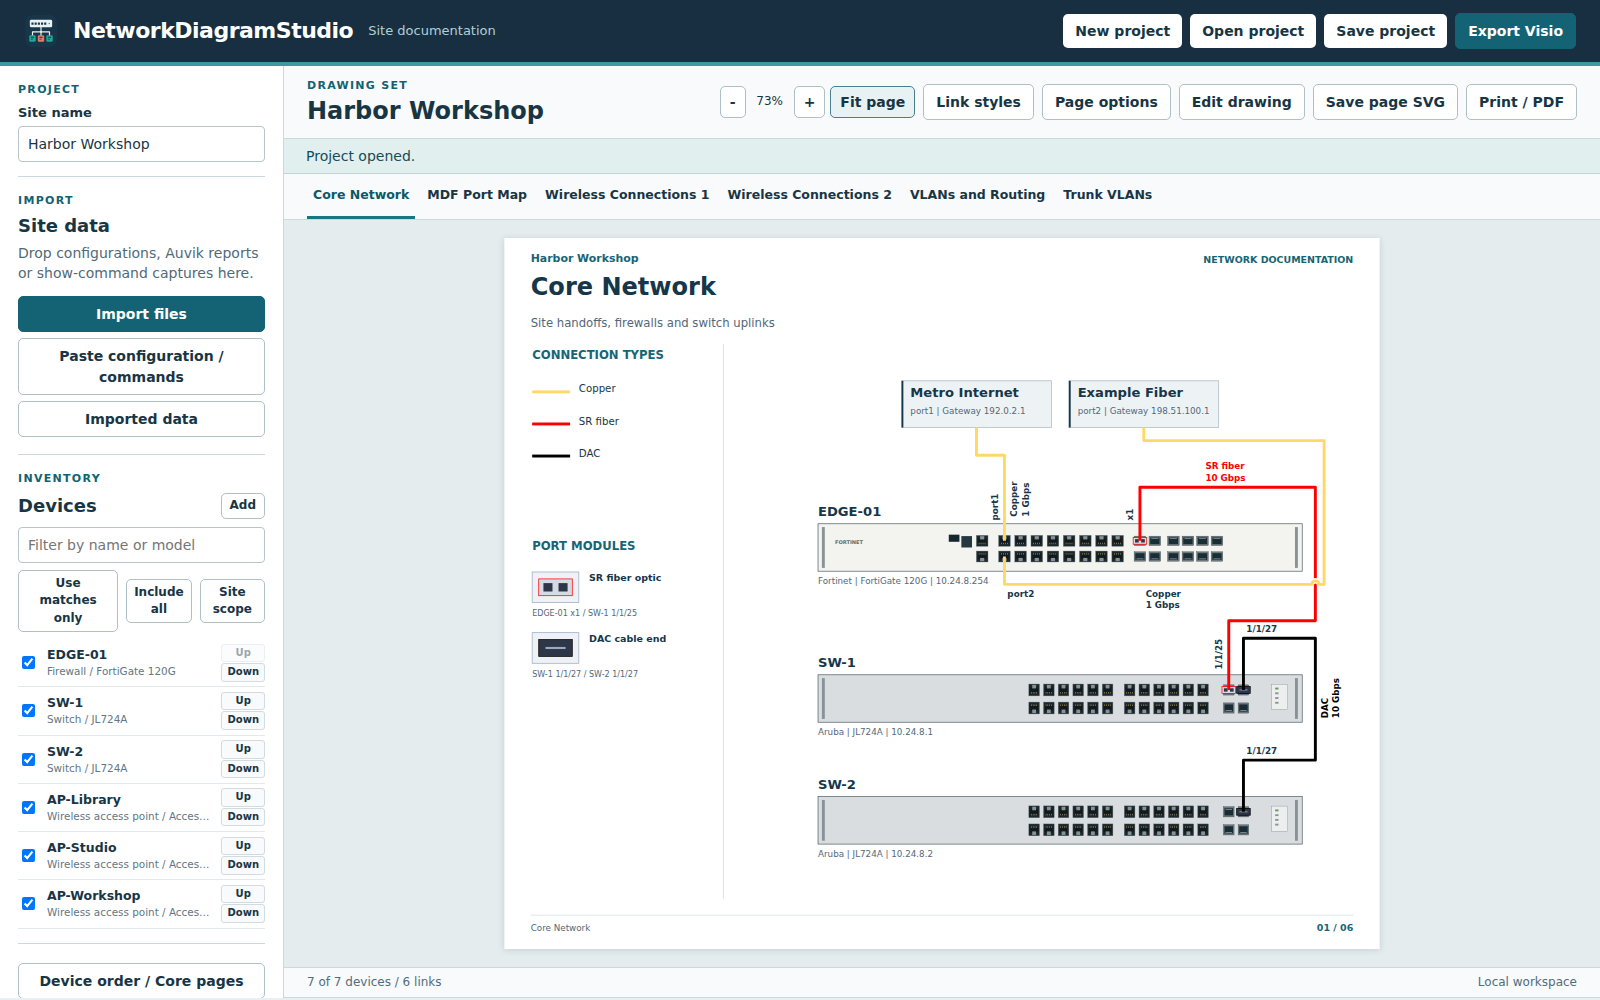
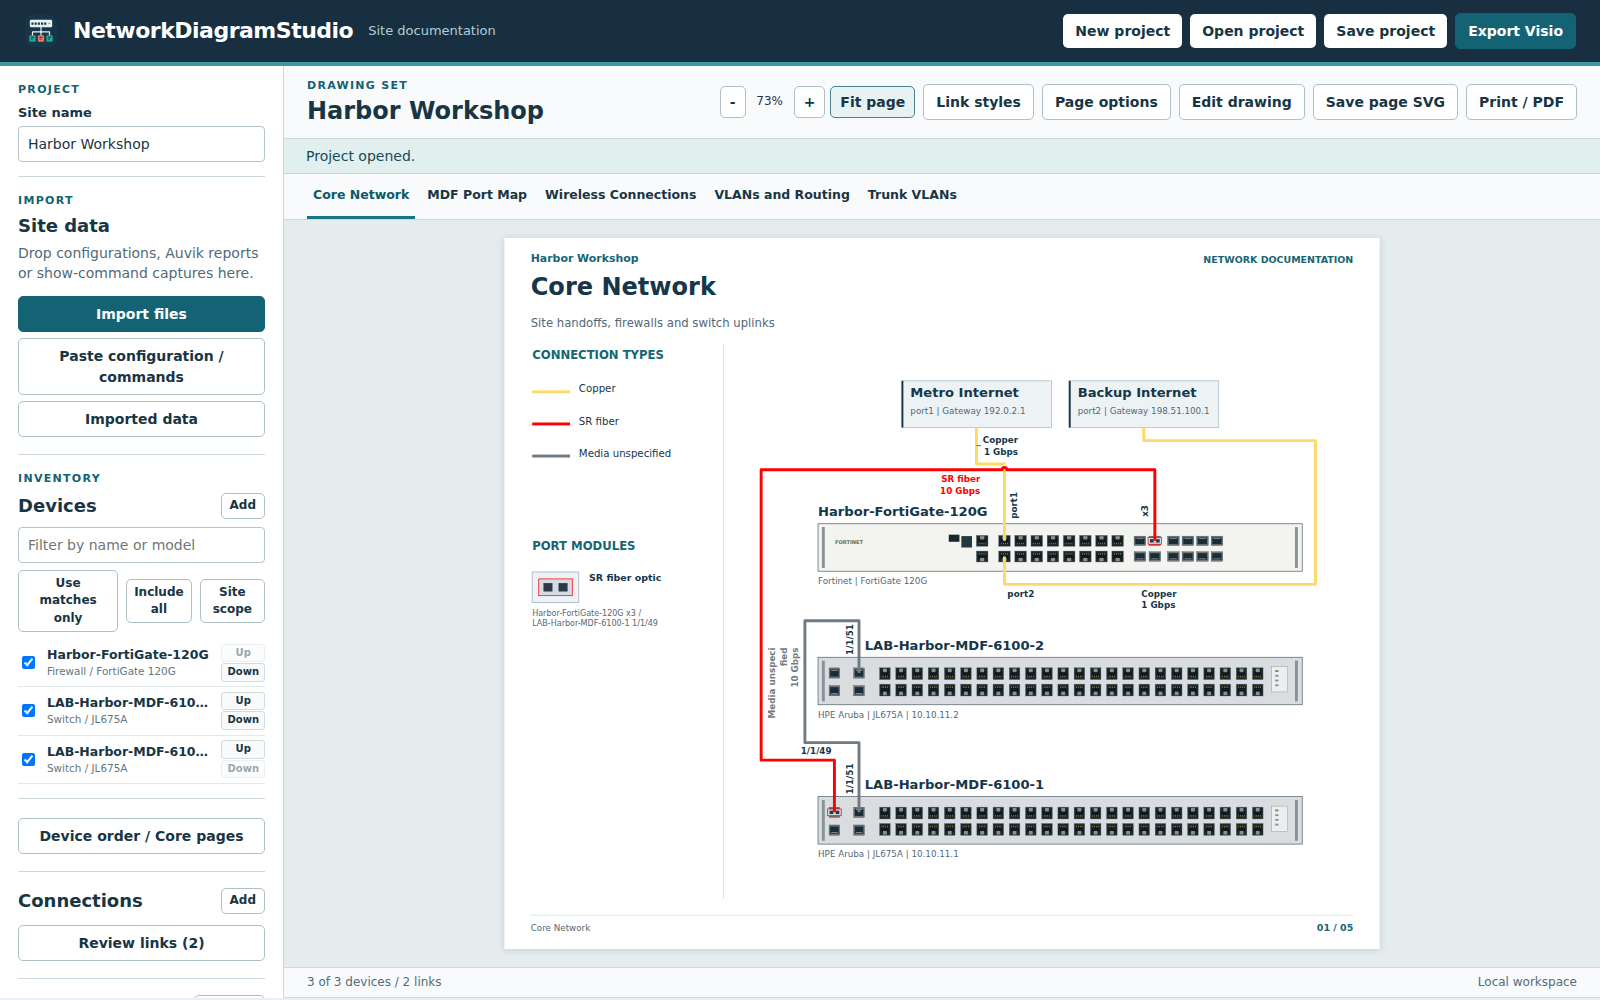
Fit core devices before automatic page continuation

diff --git a/README.md b/README.md
@@ -11,7 +11,7 @@ Network engineers can use the Windows application or the offline browser edition
 - Import supported configurations, Base64 SonicWall EXP settings, Auvik XLSX/CSV reports and show-command captures. Enable each file and choose identity, ports, links, VLANs, routes and bridges separately.
 - Add 21 device roles, including servers, hypervisor hosts, virtual machines, HCI nodes, storage, phones, workstations, printers, cameras and controllers. Recognize 43 common server/storage/platform families; retain custom models, actual interface records and user stencils.
 - Generate core topology with documented WAN handoffs, switch port maps, wireless connections, VLAN and routing records, and a site-specific trunk matrix showing native, tagged and excluded VLANs. Trunk matrices measure headings and rows to fit more columns and VLANs before continuing onto another page. Port maps separate the endpoint assignment from configured mode and operational state.
-- Order devices with Up/Down buttons or drag and drop. Choose equipment for named Core Network pages or let the app fit the selected hardware automatically, including APs. Crowded automatic core pages continue without dropping devices or links. Failed rebuilds retain the last valid drawing; rejected device edits leave inventory unchanged.
+- Order devices with Up/Down buttons or drag and drop. Choose equipment for named Core Network pages or let the app fit the selected hardware automatically, including APs. Automatic core pages try tighter padding and wider cable-label clearance before continuing. Device order is preserved, and overflow fills the following sheet without dropping equipment or connections. Failed rebuilds retain the last valid drawing; rejected device edits leave inventory unchanged.
 - Prefer straight or simple orthogonal core cables, with consistent exterior lanes when needed and jumps at crossings. Nearby device titles move to accommodate clearer routes. Core and wireless sheets include an editable link-color legend. Cross-page links identify the other sheet.
 - Import supported picture and vector Visio masters from files or recursively scanned folders. Search master names directly in the picker, or click a device to search local stencils. Artwork and mapped jacks retain matching transforms.
 - Drag mapped port markers; align a selected row or column and distribute ports evenly. The sourced native hardware catalog includes model-specific faceplates, declared stack members and chassis modules. Confirm member and module models directly in Device details.
@@ -67,7 +67,7 @@ The releases index includes published previews. A pull request or local build ma
 ## How to use
 
 - **Device scope.** **Site scope** selects devices with imported configurations and their directly linked APs. An inventory without configurations starts with all devices included. Filter by hostname or model, choose **Use matches only** or **Include all**, or set individual checkboxes. Select a device to edit its details and ports.
-- **Order and pages.** Use **Up** and **Down**, or drag a device row above another device. **Device order / Core pages** creates named core sheets and assigns devices, leaves them on automatic sheets, or excludes them from the core. Equipment continues onto additional sheets when faceplates and cable clearances do not fit. Disabling **Include access points on automatic core pages** keeps automatic sheets focused on infrastructure. Choices are saved with the project.
+- **Order and pages.** Use **Up** and **Down**, or drag a device row above another device. **Device order / Core pages** creates named core sheets and assigns devices, leaves them on automatic sheets, or excludes them from the core. The app tries several spacing arrangements before continuing equipment onto another sheet, keeping text readable and cable labels clear. Named page assignments and deliberate position edits remain authoritative. Disabling **Include access points on automatic core pages** keeps automatic sheets focused on infrastructure. Choices are saved with the project.
 - **Supplemental data.** **Imported data** lists imported configurations, Auvik files and show-command captures. Toggle the file or its categories. Assign a command capture to its local device if its prompt or filename does not identify it correctly. Changing included observations preserves manual corrections. Drop supported site-data files anywhere in the app. Captures are parsed locally and commands are never executed.
 - **Inventory roles and platforms.** **Add device** includes servers, hypervisor hosts, VMs, HCI, storage, phones and other endpoints. Model suggestions include common Dell, HPE, Lenovo, Cisco, Supermicro, storage and virtualization families. A recognized model can suggest a new device role and vendor; an explicitly selected role remains authoritative. **Platform / technology** records ESXi, Hyper-V, Proxmox, AHV, HyperCore or a custom platform independently of the physical model.
 - **Physical links.** Review both endpoint ports, speed and media. A port's SFP capability alone does not establish whether an SR, LR or DAC module is installed.
@@ -143,4 +143,4 @@ Open **dist/NetworkDiagramStudio.html** after the build. To publish the Windows 
 python scripts/package-release.py
 ```
 
-[Contributor guide](AGENTS.md) · [Development handoff](DEVELOPMENT_HANDOFF.md) · [Release notes](docs/releases/0.1.0-preview.16.md) · [Third-party notices](docs/THIRD_PARTY_NOTICES.md)
+[Contributor guide](AGENTS.md) · [Development handoff](DEVELOPMENT_HANDOFF.md) · [Release notes](docs/releases/0.1.0-preview.17.md) · [Third-party notices](docs/THIRD_PARTY_NOTICES.md)

diff --git a/DEVELOPMENT_HANDOFF.md b/DEVELOPMENT_HANDOFF.md
@@ -1,5 +1,13 @@
 # Development handoff
 
+## Preview.17 core page fitting across device orders
+
+Prepares 0.1.0-preview.17 / file version 0.1.0.17 from published preview.16 at 8bcb7cd809dfe66ff825e505c64085b5359eedd8. Preview.16 passed PR #11 and merged-main Windows checks, and its public release/feed/asset hashes and both existing downloads were verified. Standing build/release authorization continues. Require green exact-head Windows checks, merge, merged-main checks and public asset/feed verification before claiming preview.17 is published.
+
+A synthetic reproduction of the reported FortiGate/two-switch/two-WAN topology split only when the downstream switches were reversed: a media label was trapped between parallel rails, although the equipment fit. Core layout now tries normal and wider rails at three bounded padding levels, including the existing compact/spread handoff alternatives, before automatic continuation. Text sizes, saved order, manual geometry and explicit page assignments remain authoritative. Coarse packing uses an optimistic minimum-body/padding bound; actual body, route and caption validation decides capacity. Overflow owner/handoff groups prepend to the next compatible automatic sheet. Successful sheets are reused only while all layout/reference inputs remain unchanged. Continuation badges now sit beyond passing rails, with existing behavior retained for deliberate off-page edits.
+
+Tests cover all six device orders on one page, denser chains, grouped continuation with all connections preserved, collision/orthogonality checks, named pages, saved edits and native Visio connections. Browser QA loads the reversed topology, verifies one core tab, edits a title, saves/reopens and exports the actual VSDX. The independent package validator accepts that five-page export; offline loading also passes. The fictional README hero is refreshed. Existing extreme-anchor memory/time protection remains tested. Direct Microsoft Visio rendering remains unverified.
+
 ## Preview.16 Configuration Inspector-style port modules
 
 Prepares 0.1.0-preview.16 / file version 0.1.0.16 from published preview.15 at 5166bf1d2c7dfc41b95eb810efd1be5d4fedcb32. Preview.15 passed PR #10 and merged-main Windows validation, and its public release/feed/asset hashes and both download replacements were verified. The user's standing build/release authorization continues. Require green exact-head Windows checks, merge, merged-main checks and published asset/feed verification before claiming preview.16 is published.

diff --git a/AGENTS.md b/AGENTS.md
@@ -83,3 +83,5 @@ Keep the desktop update strip hidden unless a newer release is offered. Its hidd
 Size generated WAN cards from complete measured captions and the actual owner body width, including per-page scale. Reserve font-substitution clearance, keep cards inside the stack span and add rows for narrow bodies. Try compact placement first, then spread cards within that span only when cable/label clearance requires it. Consider internal handoff corridors without weakening chassis, shared-segment, crossing or bend priorities. Explicit card/device edits remain authoritative.
 
 Built-in port modules use the Configuration Inspector reference style: gray optical faces, dark receptacles and dark DAC ends with a horizontal insert. The key adds a light frame as native editable geometry, with its own master distinct from the unframed socket overlay. Keep existing child indices via editSlot when inserting a frame, preserve legacy shared-SFP key edits, separate media variants in Visio masters, and retain selected local module artwork. Do not infer new hardware capabilities from this presentation. Reference: https://github.com/TechSavage1989/Configuration-Inspector/blob/main/webview/diagram.js .
+
+Core pagination must try bounded padding and rail-clearance alternatives before splitting an automatic group. Preserve saved device order and readable label sizes. Preliminary capacity estimates must be optimistic lower bounds, not default-spacing totals. Transfer an overflowing owner and its handoffs to the next compatible automatic sheet so retries do not strand individual devices. Cache successful sheet renders only while their name, membership, fit and remote references are unchanged. Continuation badges sit outside passing cable rails; retain deliberate off-page edit behavior and bounded extreme-anchor searches. Regression coverage includes every ordering of a firewall/two-switch/two-WAN topology, denser chains, continuation groups and named-page persistence.

diff --git a/docs/releases/0.1.0-preview.17.md b/docs/releases/0.1.0-preview.17.md
@@ -1,0 +1,8 @@
+# 0.1.0-preview.17
+
+- Core pages try tighter spacing and additional cable-label clearance before moving devices to another sheet. Reordering a firewall and two linked switches no longer creates an unnecessary continuation page in the reported layout.
+- Saved device order, named page assignments, manual edits, full labels and physical port connections are preserved.
+- Overflow devices fill the next automatic sheet together. Continuation badges stay clear of passing cable rails.
+- Updated the README and its fictional topology screenshot.
+
+Validation includes every ordering of the reproduced topology, denser layouts, label/cable geometry, saved edits, offline operation and native Visio package checks. Windows build and updater lifecycle validation run before publication. Direct Microsoft Visio rendering has not been verified.
